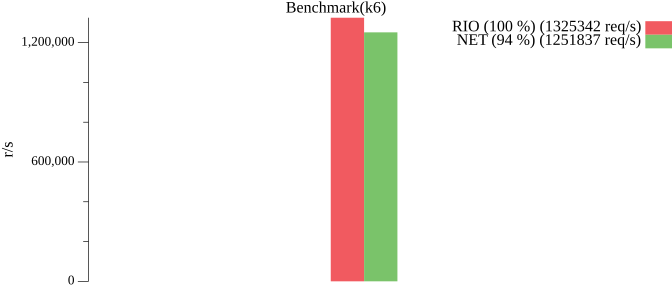
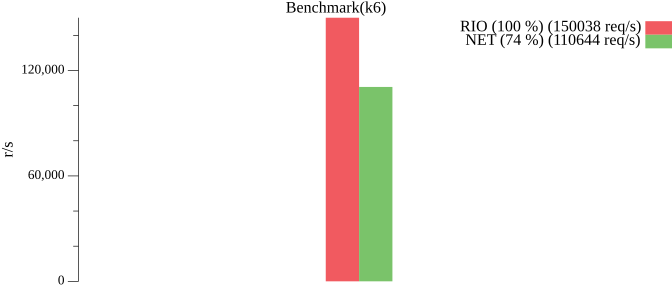
mod http bench

diff --git a/benchmark/cli/k6/bench.go b/benchmark/cli/k6/bench.go
@@ -85,7 +85,7 @@ func parseRate(b []byte) (v float64) {
 		}
 		ls := strings.TrimSpace(string(line))
 		if strings.HasPrefix(ls, "http_reqs") {
-			rate, rateErr := strconv.ParseFloat(strings.Split(strings.Split(ls, ": ")[1], " ")[0], 64)
+			rate, rateErr := strconv.ParseFloat(strings.Split(strings.Split(strings.Split(ls, ": ")[1], " ")[1], "/")[0], 64)
 			if rateErr != nil {
 				fmt.Println("parse rate failed:", rateErr)
 			}
